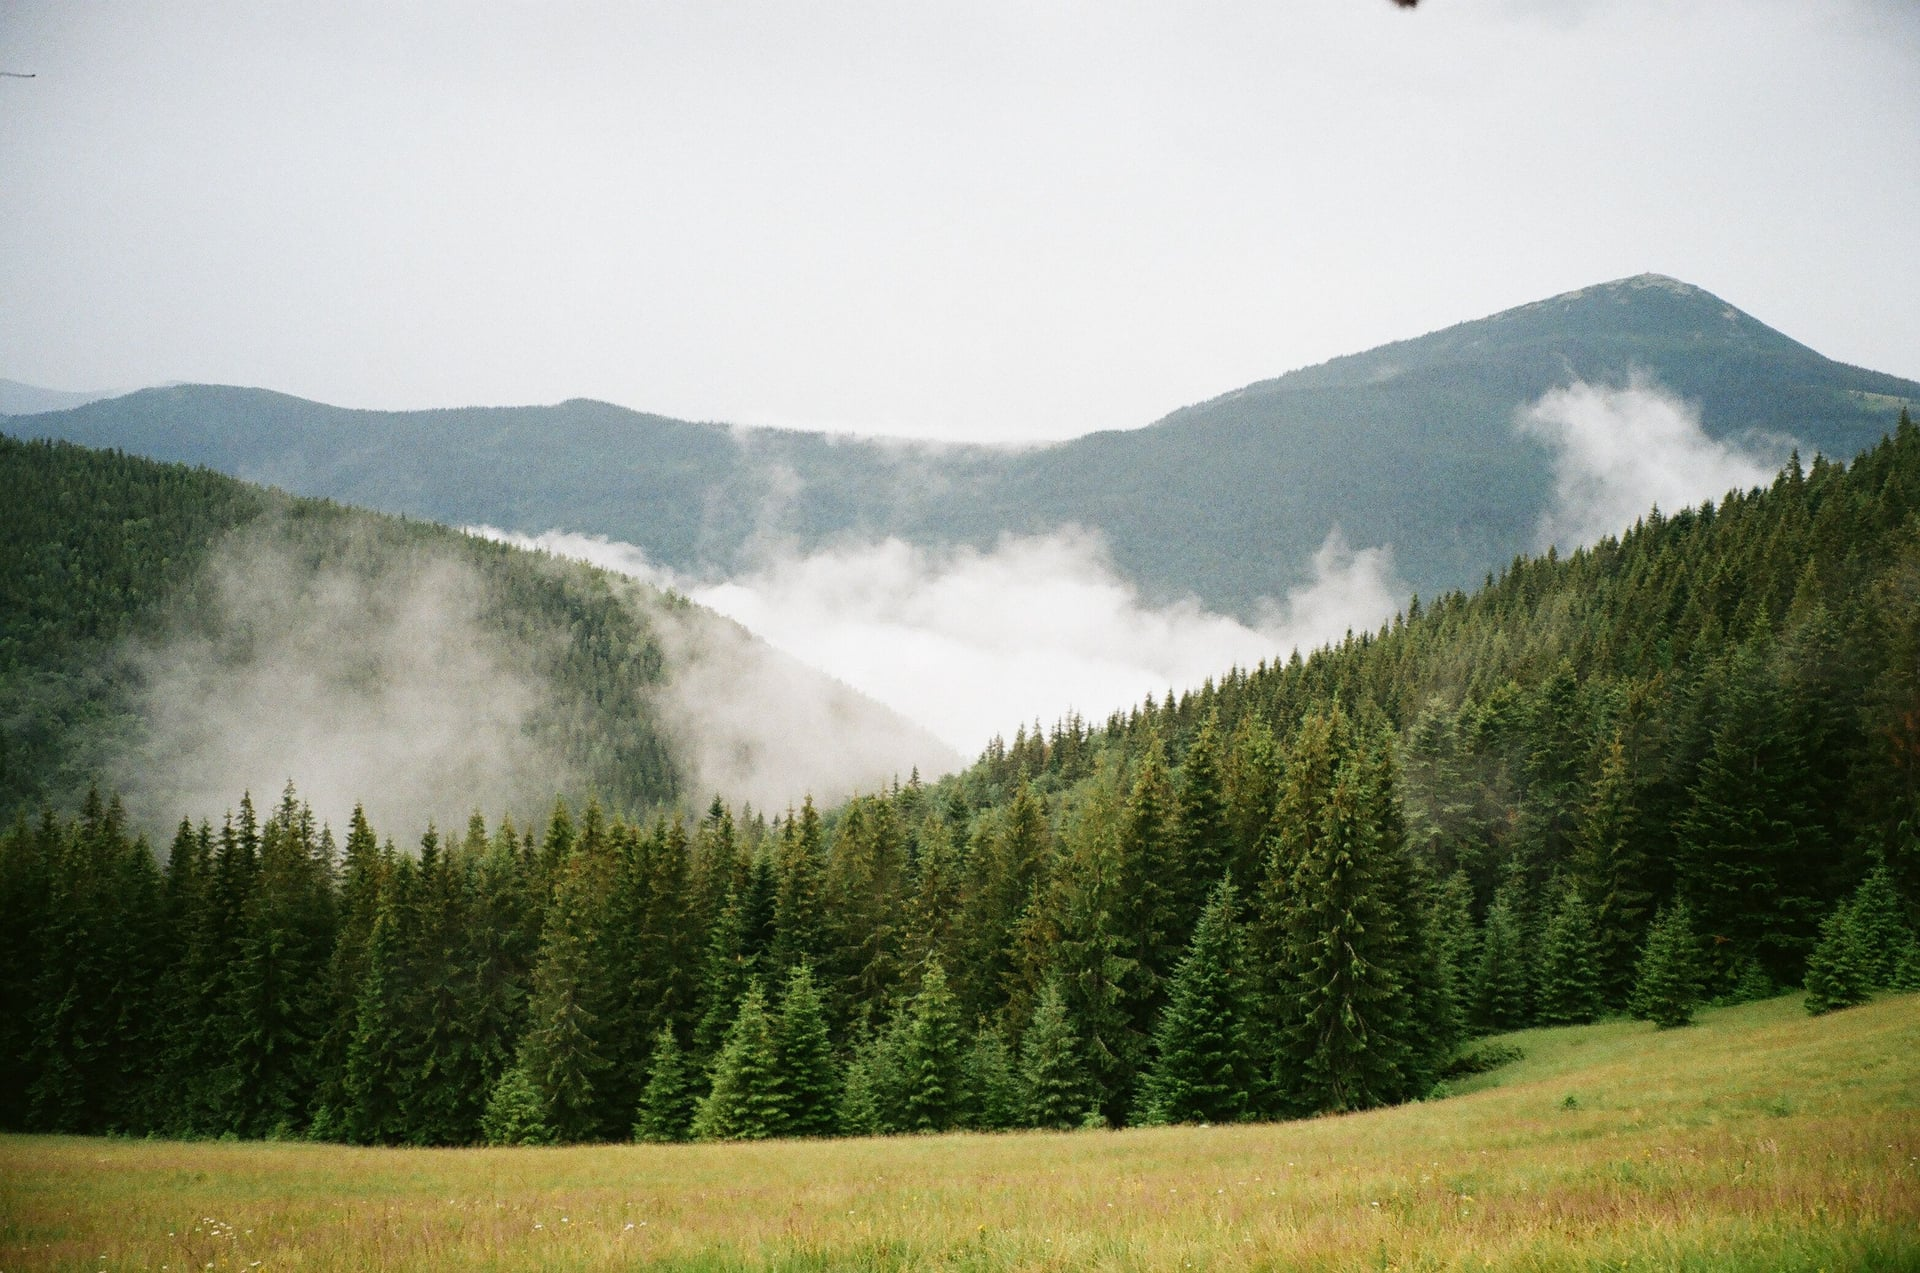
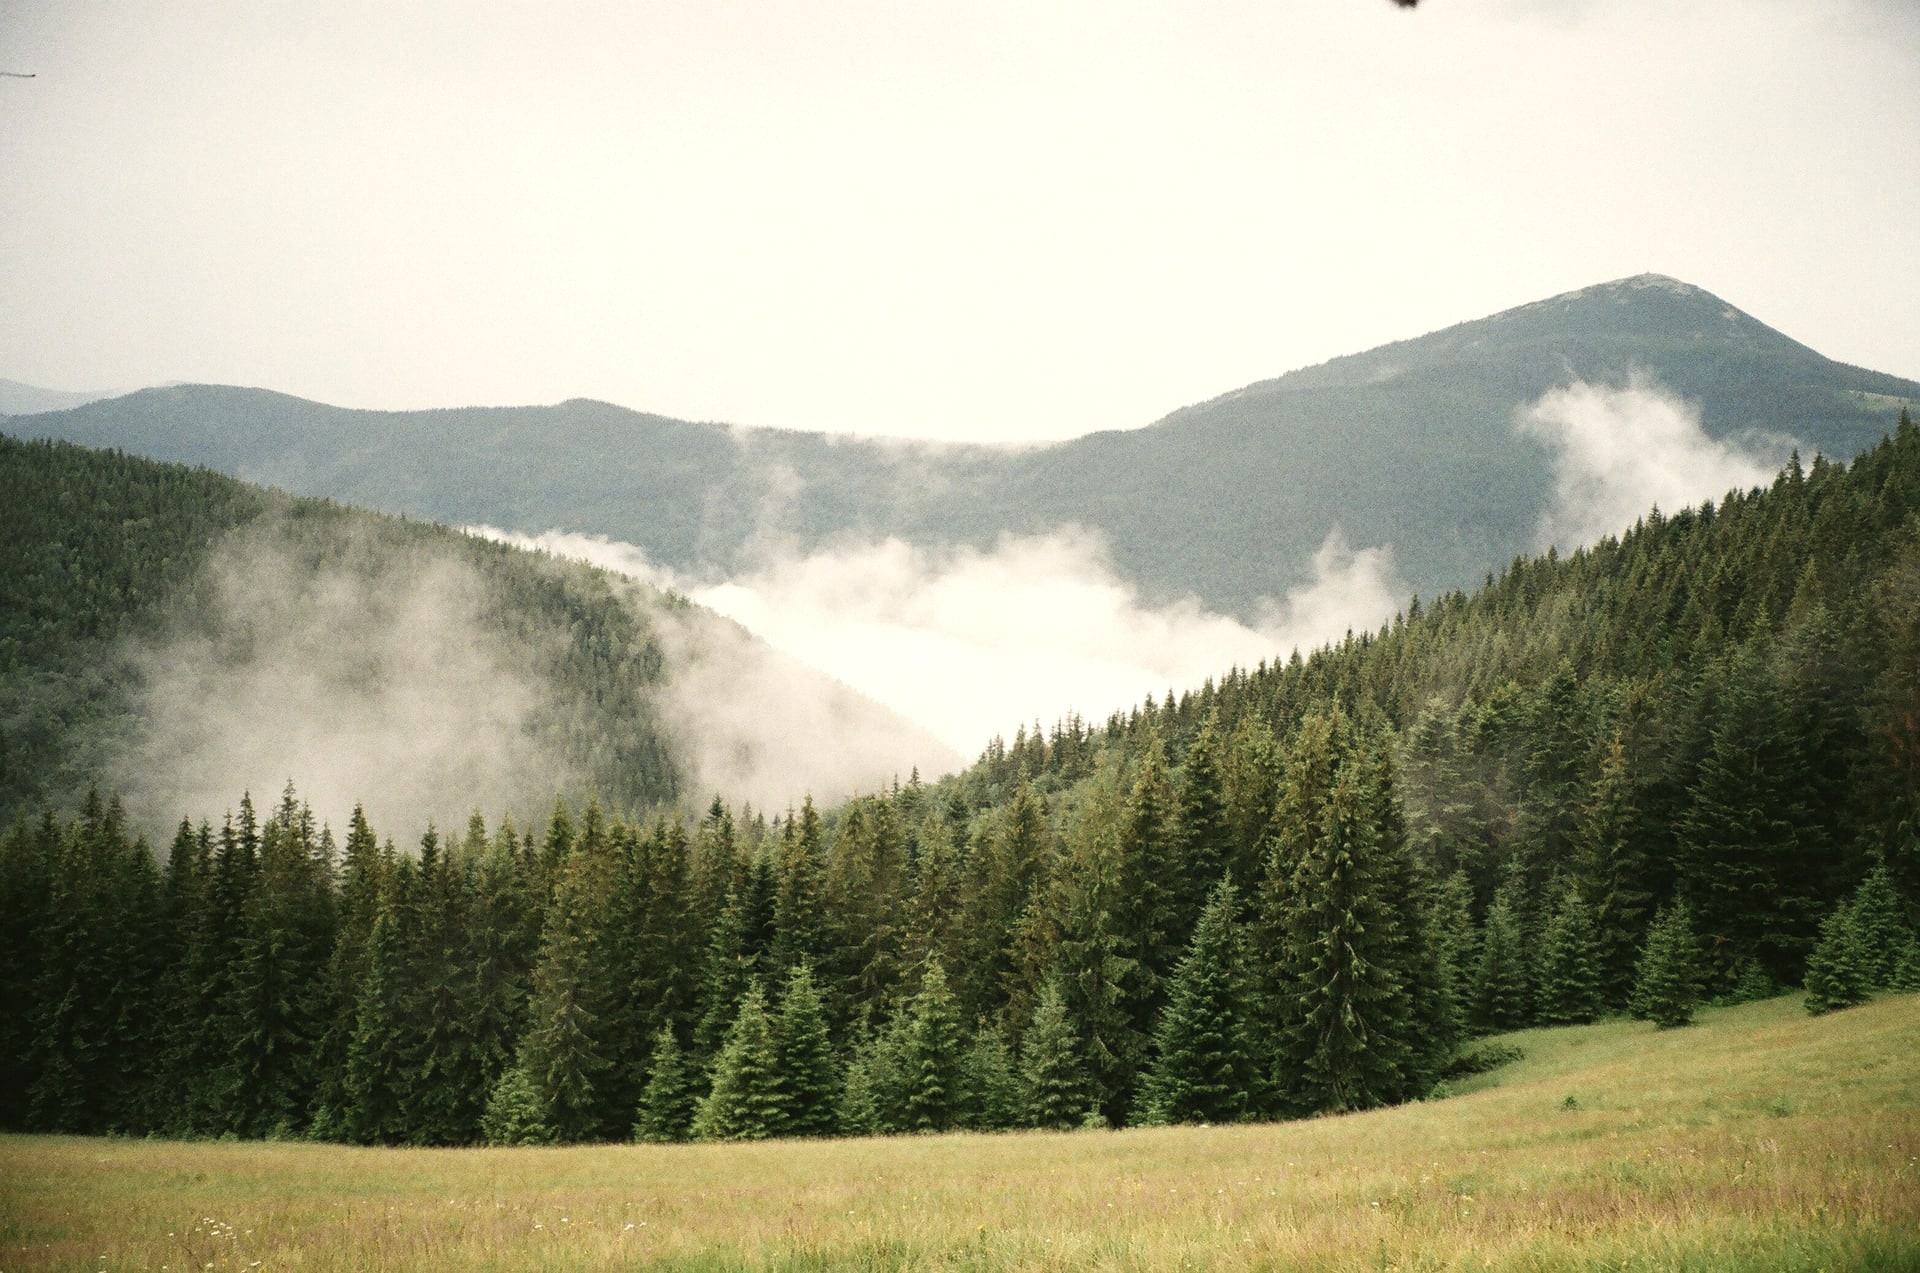
Bake the hero's color grade into the source image, drop the runtime filter
The exact CSS filter chain (photoGrade + sepia(0.1) brightness(1.03)) was
folded into one color matrix and applied to the JPEG with sharp — pixel-
identical tone, zero per-frame filter cost on the page's largest surface,
and low-power devices now see the same warm hero instead of an ungraded one.

diff --git a/app/page.tsx b/app/page.tsx
@@ -458,8 +458,10 @@ function Hero() {
           quality={70}
           sizes="100vw"
           style={{
+            // Grade is baked into the source file (photoGrade + sepia(0.1) brightness(1.03),
+            // applied mathematically) — no runtime filter on the page's largest surface,
+            // and low-power mode keeps the same warm tone
             objectFit: 'cover', objectPosition: 'center 68%',
-            filter: `${photoGrade} sepia(0.1) brightness(1.03)`,
           }}
         />
 